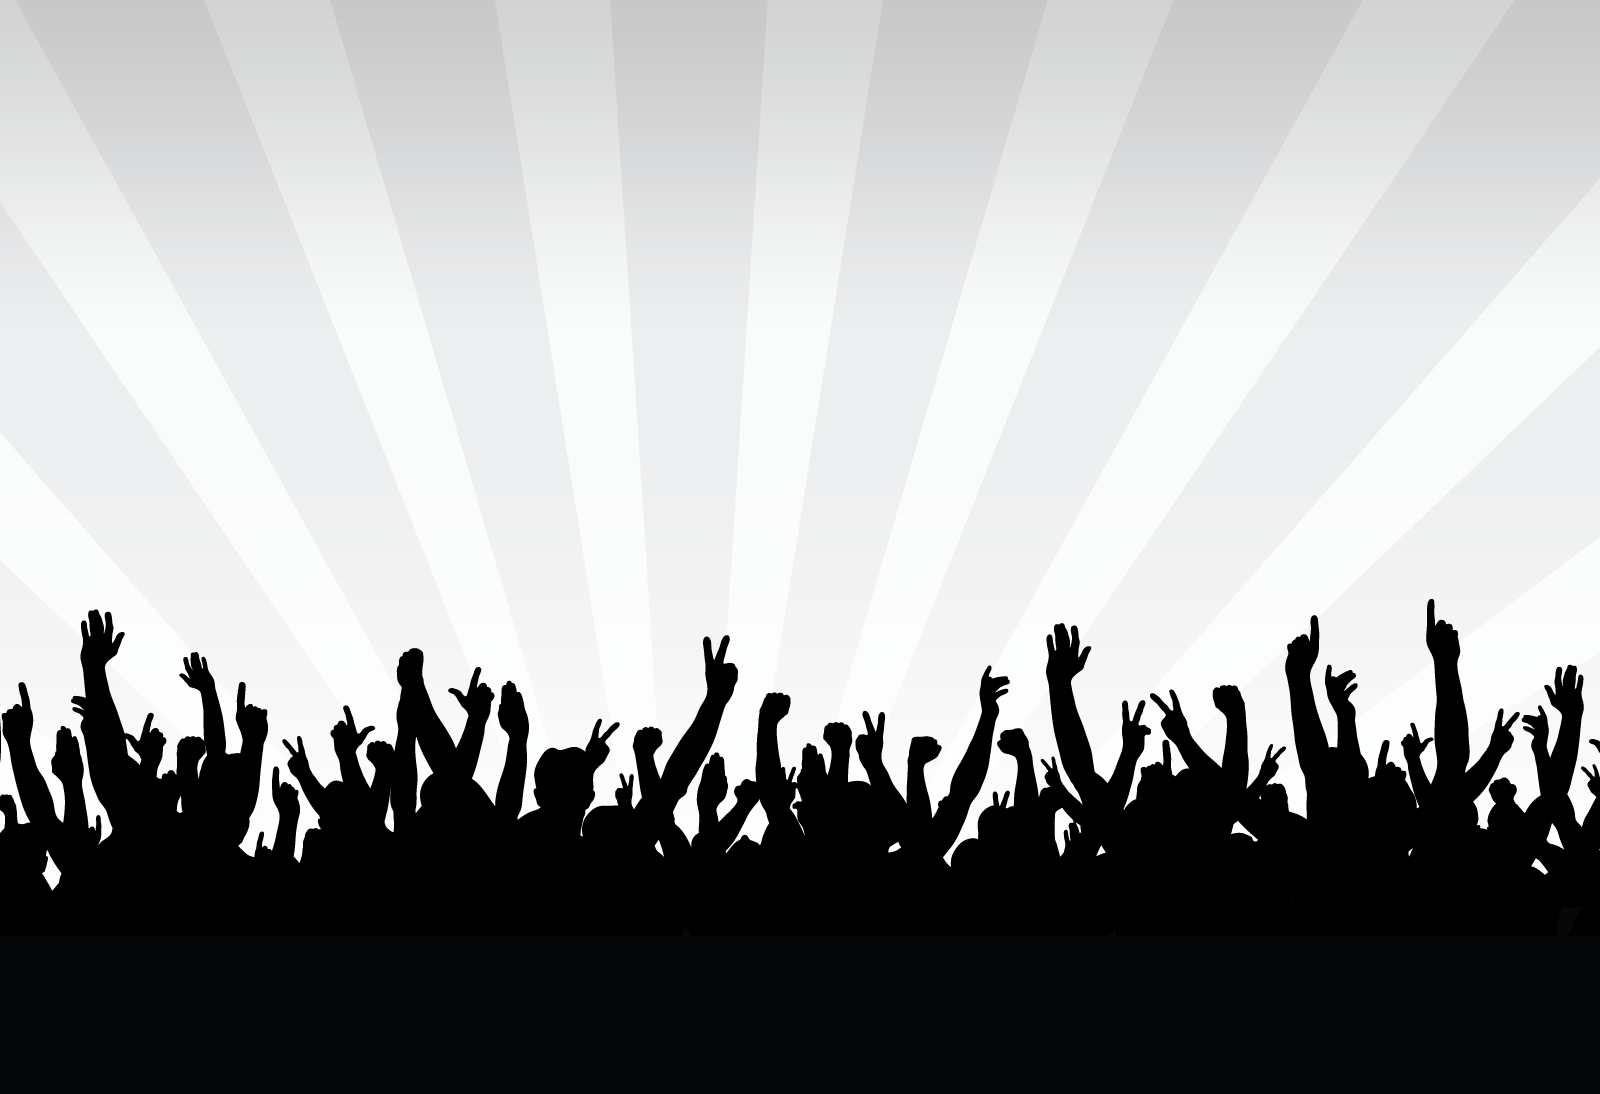
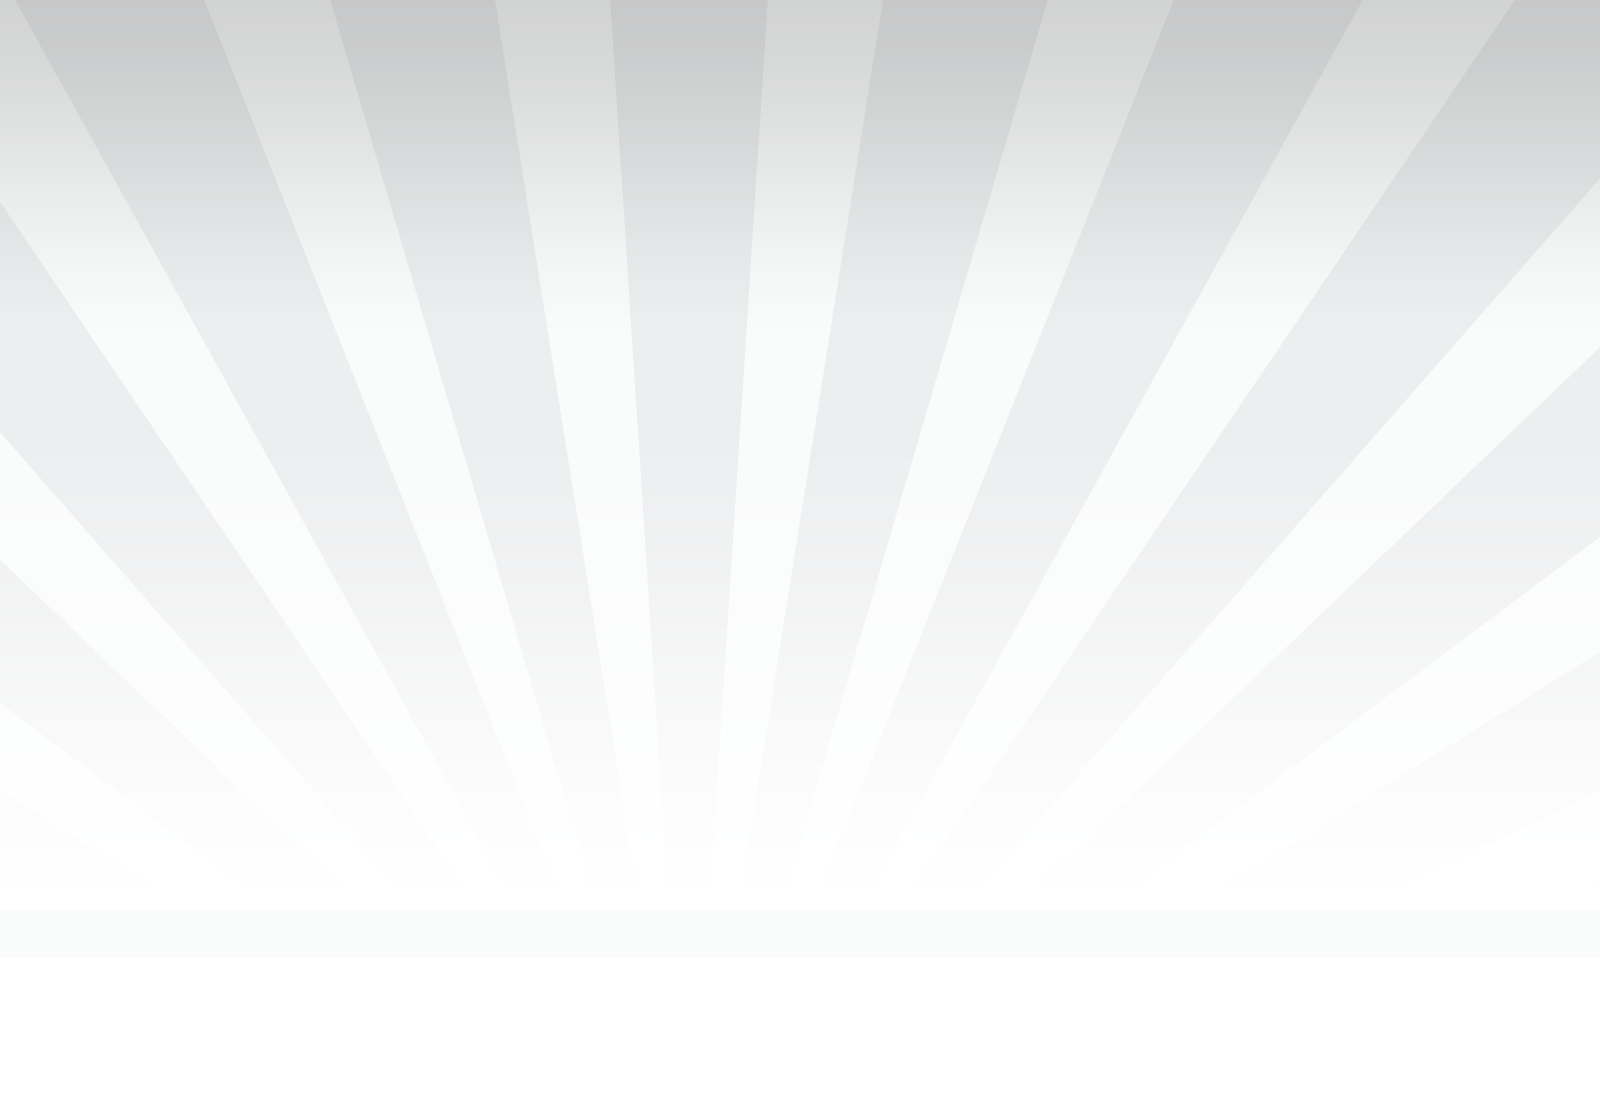
Styled header, footer, working on content

diff --git a/client/index.html b/client/index.html
@@ -1,33 +1,38 @@
 <!DOCTYPE html>
-<html lang="en">
-<head>
-  <meta charset="UTF-8">
-  <title>Haven Agency</title>
+  <head>
+    <meta charset="UTF-8">
+    <title>Haven Agency</title>
 
-  <!-- inks css file -->
-  <link rel="stylesheet" type="text/css" href="http://fastly.ink.sapo.pt/3.1.10/css/ink.css">
-  <!-- custom styles -->
-  <link rel="stylesheet" type="text/css" href="./css/style.css">
+    <!-- inks css file -->
+    <link rel="stylesheet" type="text/css" href="http://fastly.ink.sapo.pt/3.1.10/css/ink.css">
+    <!-- custom styles -->
+    <link rel="stylesheet" type="text/css" href="./css/style.css">
 
-  <!--[if lt IE 9 ]>
-    <link rel="stylesheet" href="ink-ie.min.css" type="text/css">
-  <![endif]-->
-</head>
-<body>
-  <nav class="ink-navigation">
-    <ul class="menu horizontal black">
-      <li><a href="/gnc"><img src="./assets/images/header/gnc-logo.png" /></a></li>
-      <li>two</li>
-    </ul>
-  </nav>
+    <!--[if lt IE 9 ]>
+      <link rel="stylesheet" href="ink-ie.min.css" type="text/css">
+    <![endif]-->
+  </head>
+  <body>
+    <div class="container">
+      <nav class="ink-navigation">
+        <ul class="menu horizontal black gnc-nav">
+          <li><a href="/gnc"><img src="./assets/images/header/gnc-logo.png" /></a></li>
+          <li><a href="/live-nation"><img src="./assets/images/header/live-nation.png" /></a></li>
+          <li id="fb-icon" class="icon">
+            <a href="https://www.twitter.com/havenagency/" target="_blank"><img src="./assets/images/social/twitter-icon.png" alt="twitter"/></a>
+            <a href="https://www.facebook.com/havenagency/" target="_blank"><img src="./assets/images/social/facebook.png" alt="facebook"/></a>
+          </li>
+        </ul>
+      </nav>
+      <h1 class="ribbon">
+         <strong class="ribbon-content">Enter for a chance to win a Rock Flight&reg; to a Live Nation&reg; concert of your choice!<sup>*</sup></strong>
+      </h1>
+    </div>
 
 
-  <h1 class="ribbon">
-     <strong class="ribbon-content">Enter for a chance to win a Rock Flight&reg; to a Live Nation&reg; concert of your choice!<sup>*</sup></strong>
-  </h1>
-
-
-  <!-- inks js bundle -->
-  <script type="text/javascript" src="http://fastly.ink.sapo.pt/3.1.10/js/ink-all.js"></script>
-</body>
+    <div class="footer">test footer</div>
+<!-- <img src="./assets/images/footer/footer-background.png" alt="crowd" /> -->
+    <!-- inks js bundle -->
+    <script type="text/javascript" src="http://fastly.ink.sapo.pt/3.1.10/js/ink-all.js"></script>
+  </body>
 </html>

diff --git a/client/css/style.scss b/client/css/style.scss
@@ -1,3 +1,40 @@
+body {
+  background: url('../assets/images/background.png');
+  background-size: cover;
+  background-position: center;
+  background-repeat: no-repeat;
+  background-attachment: fixed;
+  width: 1600px;
+  max-width: 100%;
+}
+
+
+
+
+/* Footer has a height: 202px */
+.footer {
+  position: absolute;
+  right: 0;
+  bottom: -5em;
+  left: 0;
+  padding: 7em 0 5.15em 0;
+  background-color: black;
+  text-align: center;
+}
+
+.footer:before {
+  content: "";
+  position: absolute;
+  background-image: url(../assets/images/footer/footer-background-crowd.png);
+  background-repeat: no-repeat;
+  width: 100%;
+  height: 100%;
+  background-size: 100% 100%;
+  bottom: 12em;
+  right: 0;
+}
+
+
 .ribbon {
  font-size: 16px !important;
  /* This ribbon is based on a 16px font side and a 24px vertical rhythm. I've used em's to position each element for scalability. If you want to use a different font size you may have to play with the position of the ribbon elements */
@@ -9,7 +46,7 @@
  color: #fff;
  text-align: left;
  padding: .5em 1.5em; /* Adjust to suit */
- margin: 2em auto 3em;
+ margin: 15em 6em;
 
  /* Based on 24px vertical rhythm. 48px bottom margin - normally 24 but the ribbon 'graphics' take up 24px themselves so we double it. */
 }
@@ -52,3 +89,33 @@
  left: 0;
  border-width: 1em 0 0 1em;
 }
+
+.ink-navigation ul.gnc-nav {
+  border-bottom: 3px solid #d71921;
+  margin: 0 auto;
+  width: 71%;
+}
+
+.ink-navigation ul.menu.horizontal li.icon {
+  float: right;
+  background-color: #d71921;
+  display: inline-block;
+}
+
+#fb-icon:before {
+  content: "SHARE";
+  color: #fff;
+  font-size: 12px;
+  float: left;
+  position: relative;
+  right: 2em;
+  top: 2em;
+}
+
+#fb-icon {
+  margin-left: 2em;
+}
+
+/*.ink-navigation ul.menu.horizontal li.icon:first-child:before {
+  content: "SHARE";
+}*/

diff --git a/gulpfile.babel.js b/gulpfile.babel.js
@@ -21,7 +21,7 @@ const paths = {
   images: './client/assets/images/**/*',
   fonts: './client/assets/fonts/**/*',
   html: './client/*.html',
-  css: './client/scss/**/*.scss',
+  css: './client/css/**/*.scss',
   dest: 'dist'
 };
 
